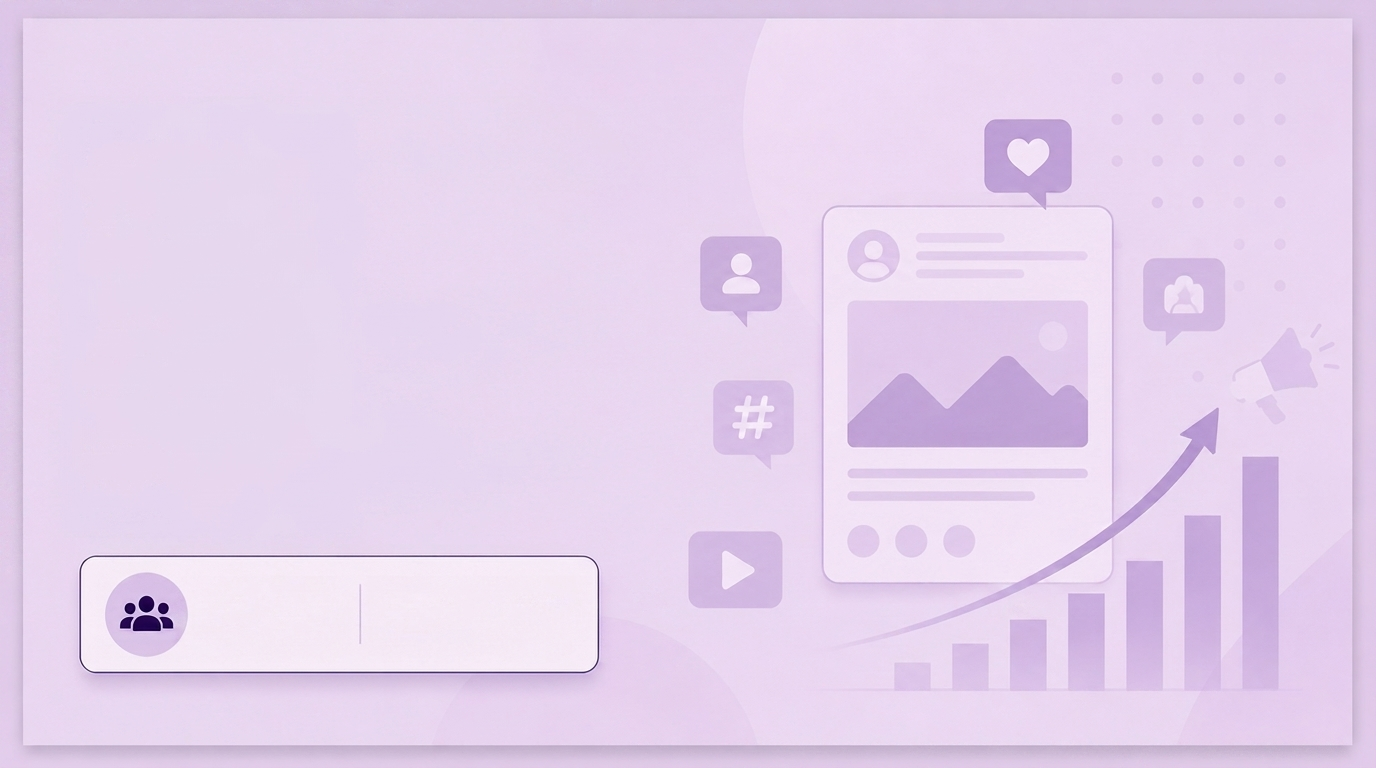
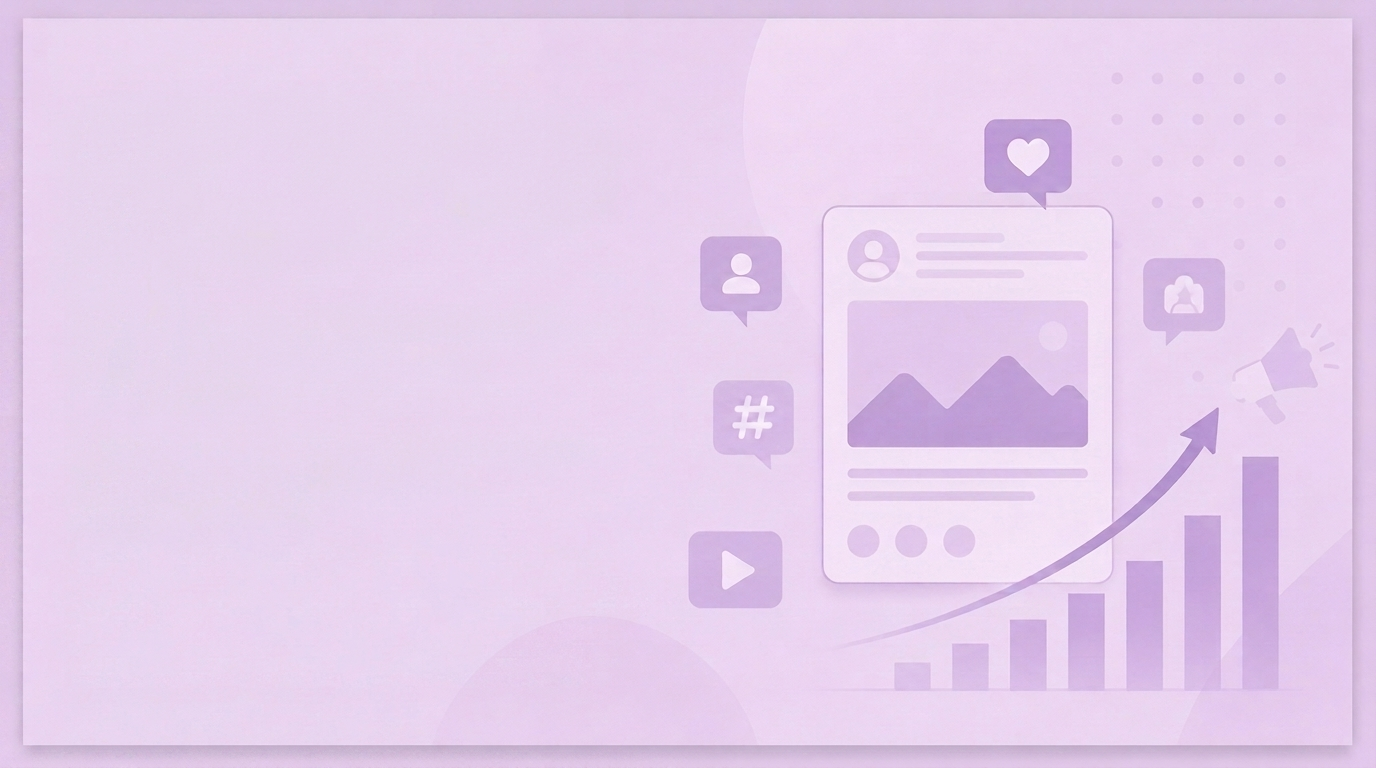
github links

Changed region(s): [[0.0625, 0.7188, 0.4375, 0.9062]]

diff --git a/my-portfolio/src/components/Projects.jsx b/my-portfolio/src/components/Projects.jsx
@@ -10,7 +10,7 @@ const projectsData = [
     category: "AI · FULL STACK",
     description: "Real-time voice-to-voice translation app with modular AI models designed for easy swapping without modifying frontend logic.",
     techStack: ["React", "FastAPI", "NLLB-200", "Whisper", "Docker"],
-    githubUrl: "https://github.com/hakhan-byte",
+    githubUrl: "https://github.com/hareemkhan-automation/AI-Voice-Translator",
     image: "/project-images/ai-voice-translator.png"
   },
   {
@@ -19,7 +19,7 @@ const projectsData = [
     category: "AI · FULL STACK",
     description: "Lightweight, low-latency full-stack conversational assistant powered by Groq and Llama 3.1.",
     techStack: ["React", "FastAPI", "Groq API", "Llama 3.1", "MUI"],
-    githubUrl: "https://github.com/hakhan-byte",
+    githubUrl: "https://github.com/hareemkhan-automation/Chatbot-App",
     image: "/project-images/ai-chatbot.png"
   },
   {
@@ -28,7 +28,7 @@ const projectsData = [
     category: "WEB · FRONTEND",
     description: "Role-based task management board with drag-and-drop workflow stages, RBAC permissions, and local storage.",
     techStack: ["React 19", "Vite", "JavaScript", "Lucide Icons", "LocalStorage"],
-    githubUrl: "https://github.com/hakhan-byte",
+    githubUrl: "https://github.com/hareemkhan-automation/kanban-tasker",
     image: "/project-images/kanban-app.png"
   },
   {
@@ -37,7 +37,7 @@ const projectsData = [
     category: "AI · AUTOMATION",
     description: "Automated n8n workflow to filter incoming emails and generate context-aware AI draft responses in Outlook.",
     techStack: ["n8n", "Gemini API", "Outlook", "Automation"],
-    githubUrl: "https://github.com/hakhan-byte",
+    githubUrl: "https://github.com/hareemkhan-automation/AI-Outlook-Auto-Responder",
     image: "/project-images/outlook-automation.png"
   },
   {
@@ -55,7 +55,7 @@ const projectsData = [
     category: "AUTOMATION · PYTHON",
     description: "Scrapes and extracts accurate company metadata using domain names with strict ground-truth verification.",
     techStack: ["Python", "Playwright", "Ollama", "Gemini API", "Google Sheets"],
-    githubUrl: "https://github.com/hakhan-byte",
+    githubUrl: "https://github.com/hareemkhan-automation/Automated-Company-Data-Extractor",
     image: "/project-images/company-data-extractor.png"
   },
   {
@@ -64,7 +64,7 @@ const projectsData = [
     category: "DATABASE · BACKEND",
     description: "Normalized 7-table relational database architecture with stored procedures, audit triggers, and a Python CLI.",
     techStack: ["Python", "SQL Server", "pyodbc", "Relational DB"],
-    githubUrl: "https://github.com/hakhan-byte",
+    githubUrl: "https://github.com/hareemkhan-automation/Car-Rental-Management-System",
     image: "/project-images/car-rental-system.png"
   },
   {
@@ -73,7 +73,7 @@ const projectsData = [
     category: "CAMPAIGN · MEDIA",
     description: "Social donation campaign and documentary production raising funds to purchase clothing for underprivileged children.",
     techStack: ["Campaign Strategy", "Media Production", "Leadership"],
-    githubUrl: "https://github.com/hakhan-byte",
+    githubUrl: "https://github.com/hareemkhan-automation/Raah-e-Ehsaas",
     image: "/project-images/raah-e-ehsaas.png"
   },
   {
@@ -82,7 +82,7 @@ const projectsData = [
     category: "AI · AUDIO",
     description: "Fully offline voice cloning and text-to-speech engine built with Coqui TTS as an open-source ElevenLabs alternative.",
     techStack: ["Python", "Coqui TTS", "PyTorch", "librosa", "Colab"],
-    githubUrl: "https://github.com/hakhan-byte",
+    githubUrl: "https://github.com/hareemkhan-automation/Local-Voice-Cloning-TTS",
     image: "/project-images/voice-cloning-tts.png"
   },
   {
@@ -91,7 +91,7 @@ const projectsData = [
     category: "PYTHON · OOP",
     description: "OOP-driven CLI application featuring fine calculations, role permissions, borrowing limits, and SHA-256 auth.",
     techStack: ["Python", "OOP", "JSON", "SHA-256"],
-    githubUrl: "https://github.com/hakhan-byte",
+    githubUrl: "https://github.com/hareemkhan-automation/Library-Management-System",
     image: "/project-images/library-management.png"
   },
   {
@@ -100,7 +100,7 @@ const projectsData = [
     category: "BUSINESS · HEALTH TECH",
     description: "Strategic case study identifying revenue disintermediation and proposing AI pattern monitoring with escrow models.",
     techStack: ["Business Strategy", "SWOT Analysis", "Risk Assessment"],
-    githubUrl: "https://github.com/hakhan-byte",
+    githubUrl: "https://github.com/hareemkhan-automation/Marham-Digital-Strategy-Study",
     image: "/project-images/marham-case-study.png"
   },
   {
@@ -109,7 +109,7 @@ const projectsData = [
     category: "DATA ANALYTICS",
     description: "Exploratory data analysis on 1,000-row dataset analyzing purchasing trends, profit margins, and payment channels.",
     techStack: ["Python", "Pandas", "Matplotlib", "Data Viz"],
-    githubUrl: "https://github.com/hakhan-byte",
+    githubUrl: "https://github.com/hareemkhan-automation/Superstore-Sales-Analysis",
     image: "/project-images/superstore-analysis.png"
   },
   {
@@ -118,7 +118,7 @@ const projectsData = [
     category: "DATA SCIENCE",
     description: "Primary research study modeling undergraduate sleep habits using normal and binomial probability distributions.",
     techStack: ["MS Excel", "Applied Statistics", "Probability Modeling"],
-    githubUrl: "https://github.com/hakhan-byte",
+    githubUrl: "https://github.com/hareemkhan-automation/Sleep-Pattern-Statistical-Study",
     image: "/project-images/sleep-study.png"
   },
   {
@@ -127,7 +127,7 @@ const projectsData = [
     category: "PYTHON · OOP",
     description: "Object-oriented rule engine generating personalized routines and flagging ingredient incompatibility conflicts.",
     techStack: ["Python", "OOP", "Rule Engine", "Exception Handling"],
-    githubUrl: "https://github.com/hakhan-byte",
+    githubUrl: "https://github.com/hareemkhan-automation/Skincare-Routine-Planner",
     image: "/project-images/skincare-planner.png"
   }
 ]

diff --git a/my-portfolio/src/SkillsSection.css b/my-portfolio/src/SkillsSection.css
@@ -57,8 +57,8 @@
 
 .skills-grid {
   display: grid;
-  grid-template-columns: repeat(auto-fit, minmax(300px, 1fr));
-  gap: 1.15rem;
+  grid-template-columns: repeat(3, minmax(0, 1fr));
+  gap: clamp(0.8rem, 1.2vw, 1.15rem);
   align-items: start;
   grid-auto-rows: max-content;
 }
@@ -67,10 +67,10 @@
   position: relative;
   display: flex;
   flex-direction: column;
-  gap: 1rem;
-  padding: 1.25rem;
-  min-height: 220px;
-  max-height: 270px;
+  gap: 0.7rem;
+  padding: clamp(0.85rem, 1.3vw, 1rem);
+  min-height: clamp(180px, 22vw, 240px);
+  max-height: clamp(220px, 26vw, 250px);
   border: 1px solid rgba(74, 62, 86, 0.16);
   border-radius: 1.25rem;
   background: var(--bg-light-lavender);
@@ -94,7 +94,8 @@
 .skill-card__header {
   display: flex;
   align-items: center;
-  gap: 0.8rem;
+  gap: 0.65rem;
+  margin-bottom: 0.1rem;
 }
 
 .skill-icon {
@@ -143,8 +144,9 @@
 .skill-tags {
   display: flex;
   flex-wrap: wrap;
-  gap: 0.45rem;
+  gap: 0.4rem;
   margin-top: auto;
+  align-items: flex-start;
 }
 
 .skill-tag {
@@ -158,10 +160,27 @@
   }
 
   .skills-grid {
-    grid-template-columns: 1fr;
+    grid-template-columns: repeat(3, minmax(0, 1fr));
+    gap: 0.75rem;
   }
 
   .skill-card {
-    min-height: 200px;
+    min-height: clamp(170px, 24vw, 210px);
+    padding: 0.8rem;
+  }
+}
+
+@media (max-width: 560px) {
+  .skills-grid {
+    gap: 0.55rem;
+  }
+
+  .skill-card__title {
+    font-size: 0.9rem;
+  }
+
+  .skill-tag {
+    font-size: 0.72rem;
+    padding: 0.35rem 0.6rem;
   }
 }

diff --git a/my-portfolio/src/App.css b/my-portfolio/src/App.css
@@ -20,7 +20,7 @@
   display: flex;
   align-items: flex-end;
   justify-content: flex-start;
-  padding: 0 clamp(1rem, 2.5vw, 2rem) clamp(1.25rem, 3vw, 5rem);
+  padding: clamp(1.25rem, 2.8vw, 2.25rem) clamp(1rem, 2.5vw, 2rem) clamp(1.25rem, 3vw, 3rem);
   opacity: 0;
   transform: scale(1.02);
   transition: opacity 0.8s ease, transform 0.8s ease;
@@ -32,14 +32,16 @@
 }
 
 .about-slide-content {
-  width: min(100%, 520px);
+  width: min(100%, clamp(300px, 48vw, 580px));
   max-width: 100%;
-  padding: 1rem 1rem;
-  border-radius: 1.25rem;
-  background: rgba(255, 255, 255, 0.16);
-  backdrop-filter: blur(12px);
-  -webkit-backdrop-filter: blur(12px);
-  box-shadow: 0 20px 45px rgba(17, 10, 31, 0.22);
+  min-height: clamp(180px, 24vw, 260px);
+  padding: 1.1rem 1.15rem;
+  border-radius: 1.35rem;
+  background: linear-gradient(135deg, rgba(15, 9, 28, 0.93), rgba(56, 35, 83, 0.82));
+  border: 1px solid rgba(255, 255, 255, 0.22);
+  backdrop-filter: blur(16px);
+  -webkit-backdrop-filter: blur(16px);
+  box-shadow: 0 22px 50px rgba(9, 5, 20, 0.38), inset 0 1px 0 rgba(255, 255, 255, 0.12);
   color: #ffffff;
   text-align: left;
   box-sizing: border-box;
@@ -144,12 +146,13 @@
   }
 
   .about-slide {
-    padding: 1.25rem;
-    align-items: flex-end;
+    padding: 1rem 1rem 1.25rem;
+    align-items: flex-start;
   }
 
   .about-slide-content {
     width: 100%;
+    min-height: auto;
     padding: 1rem 1rem 1.1rem;
     border-radius: 1rem;
   }
